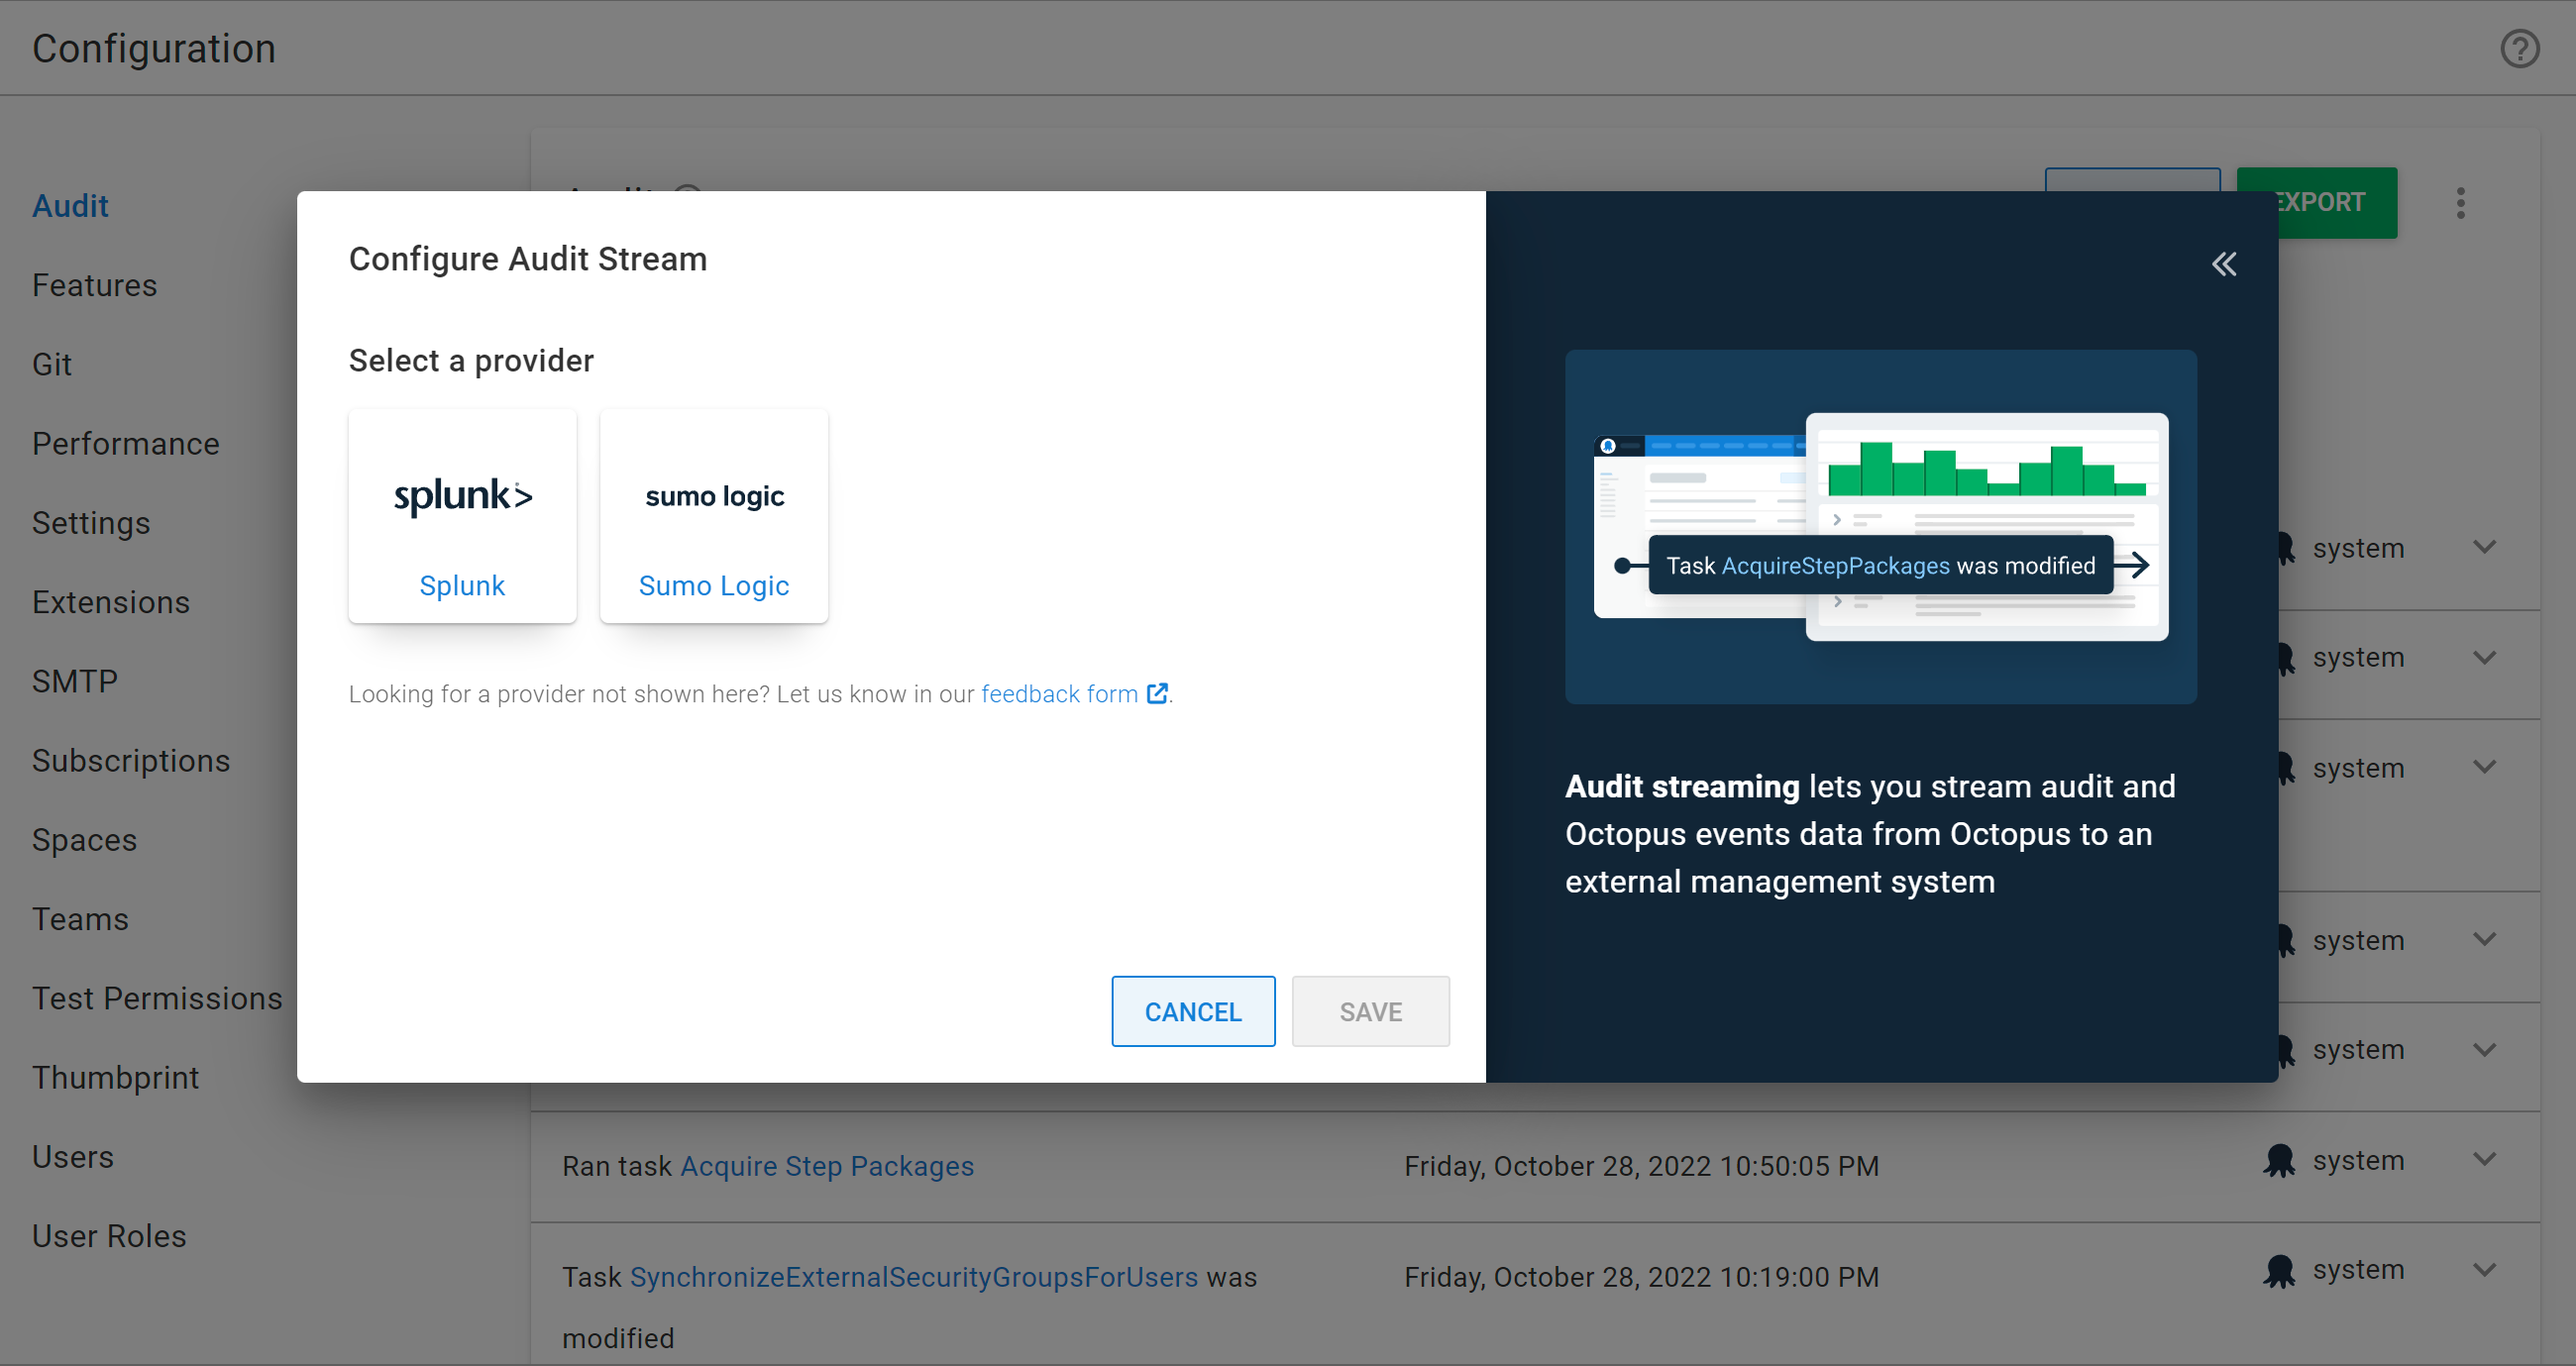
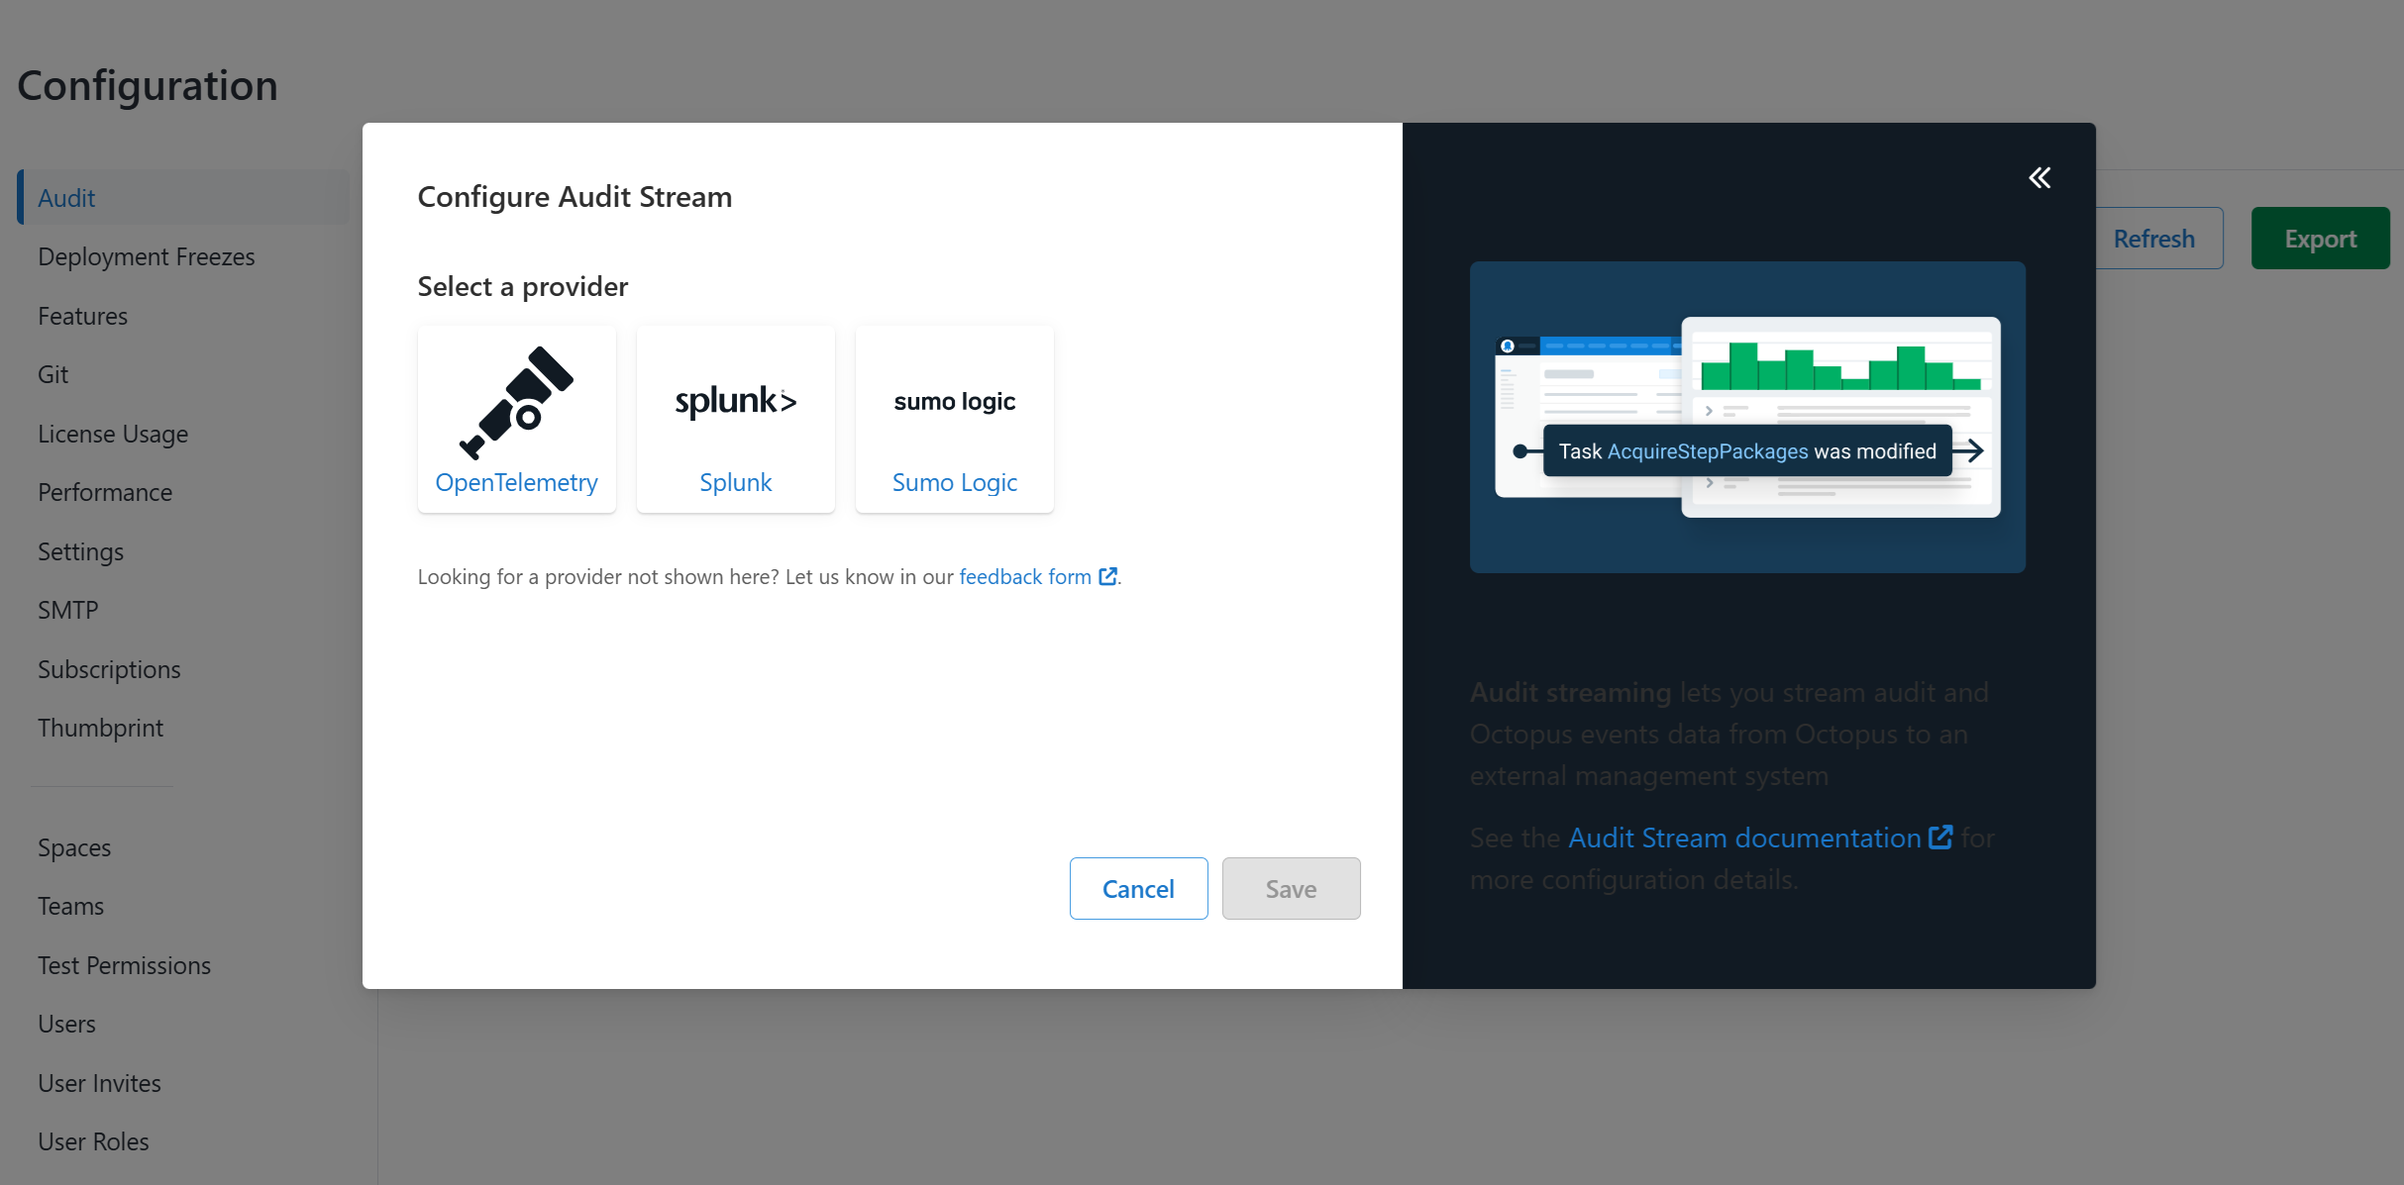
Added docs for OTLP audit streaming

diff --git a/src/pages/docs/security/users-and-teams/auditing/audit-stream.md b/src/pages/docs/security/users-and-teams/auditing/audit-stream.md
@@ -20,7 +20,7 @@ You can configure the audit stream from the **Audit** page in the **Configuratio
 ![Audit Stream Not Configured](/docs/security/users-and-teams/auditing/images/audit-stream-not-configured.png)
 :::
 
-Currently we support streaming to **Splunk** and **Sumo Logic**.
+Currently we support streaming to **OpenTelemetry (OTLP)** compatible providers as well as directly to **Splunk** and **Sumo Logic**.
 
 :::figure
 ![Audit Stream Configure Dialog](/docs/security/users-and-teams/auditing/images/audit-stream-configure-dialog.png)
@@ -29,6 +29,23 @@ Currently we support streaming to **Splunk** and **Sumo Logic**.
 :::div{.hint}
 Looking to connect to a SIEM solution that is not currently supported? Let us know in our [feedback form](https://oc.to/AuditStreamFeedbackForm).
 :::
+
+### Streaming to OpenTelemetry (OTLP)
+
+Refer to your SIEM solution's documentation on how to set up collection via OpenTelemetry. Some providers may support OTLP directly, while others recommend hosting your own [OpenTelmetry Collector](https://github.com/open-telemetry/opentelemetry-collector) and use one of the [exporters](https://github.com/open-telemetry/opentelemetry-collector-contrib/tree/main/exporter) to forward the data to the SIEM.
+
+Once you have set up the collector, you will need to provide the connection details in Octopus:
+- **OpenTelmetry Endpoint URL** - The collection endpoint. In most cases you will need to append `/v1/logs` to the url
+- **OTLP Protocol** - The protocol to use, `HTTP/protobuf` (also known as `OTLP/HTTP`) or `gRPC`
+- **Secret** - The authentication token to use, see below
+- **Header** - Any HTTP headers that are required by the collector
+
+There is no standard authentication mechanism for OpenTelemetry, so it has to be configured to suit the collector. If there is no authentication, leave the `Secret` blank. You can use the `#{Secret}` replacement token to insert the secret into the URL or the header values.
+
+Common configurations are:
+- **Token in the URL** - Remove the token from the URL and replace it with `#{Secret}`. Place the token into the `Secret` field.
+- **Custom Header** - Add a header with the required key and value of `#{Secret}`
+- **Bearer Authentication** - Add a header with key `Authorization` and value `Bearer #{Secret}` or `Bearer #{Secret | ToBase64}` if the secret needs to be Base64 encoded
 
 ### Streaming to Splunk
 
